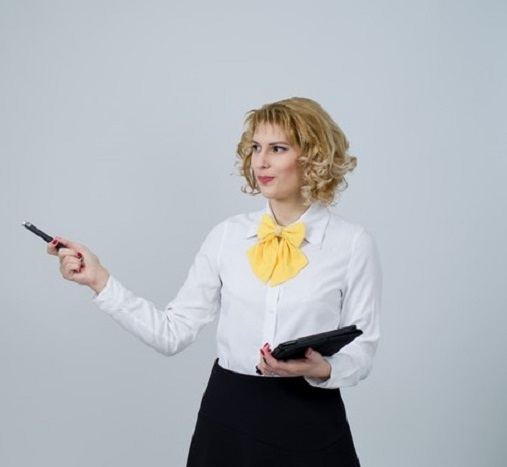
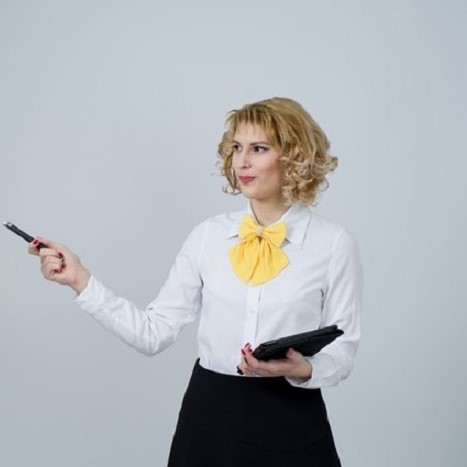
Update document 3

diff --git a/Documents/P3_changes_1.html b/Documents/P3_changes_1.html
@@ -119,6 +119,10 @@
     
     <h2>Added Javascript file courses.js</h2>
     <p>In order to share the desired behaviour of displaying and hiding the reviews, and faking a registered for course response across all individual course pages, this file was added.</p>
+	
+	<h2>Changes to lecturers - lecturers.html</h2>
+	<p>Redesigned the layout to resemble a more modern look. Also made the photo scale with browser window instead of having a set size. There is also potential for more information this way,
+	with more time a method to list the courses for the present lecturer could be added.</p>
     
     <h2>Fulfilment</h2>
     TODO: Skriv inn mer detaljert hva dere har gjort.
@@ -134,5 +138,7 @@
     In includeHTML he implemented a way to modularize the footer and navbar HTML code, so that this will be consistent across all sites.</p>
     <h3>Martin</h3>
     <p>Worked on the footer, Google maps integration and the lecturer descriptions.</p>
+	<p>Used Google API tools to fetch a location from google maps and displayed it in footer. 
+	To make a dynamic slideshow, he used a method from w3schools to change which lecturer is displayed through javascript.</p>
   </body>
 </html>
